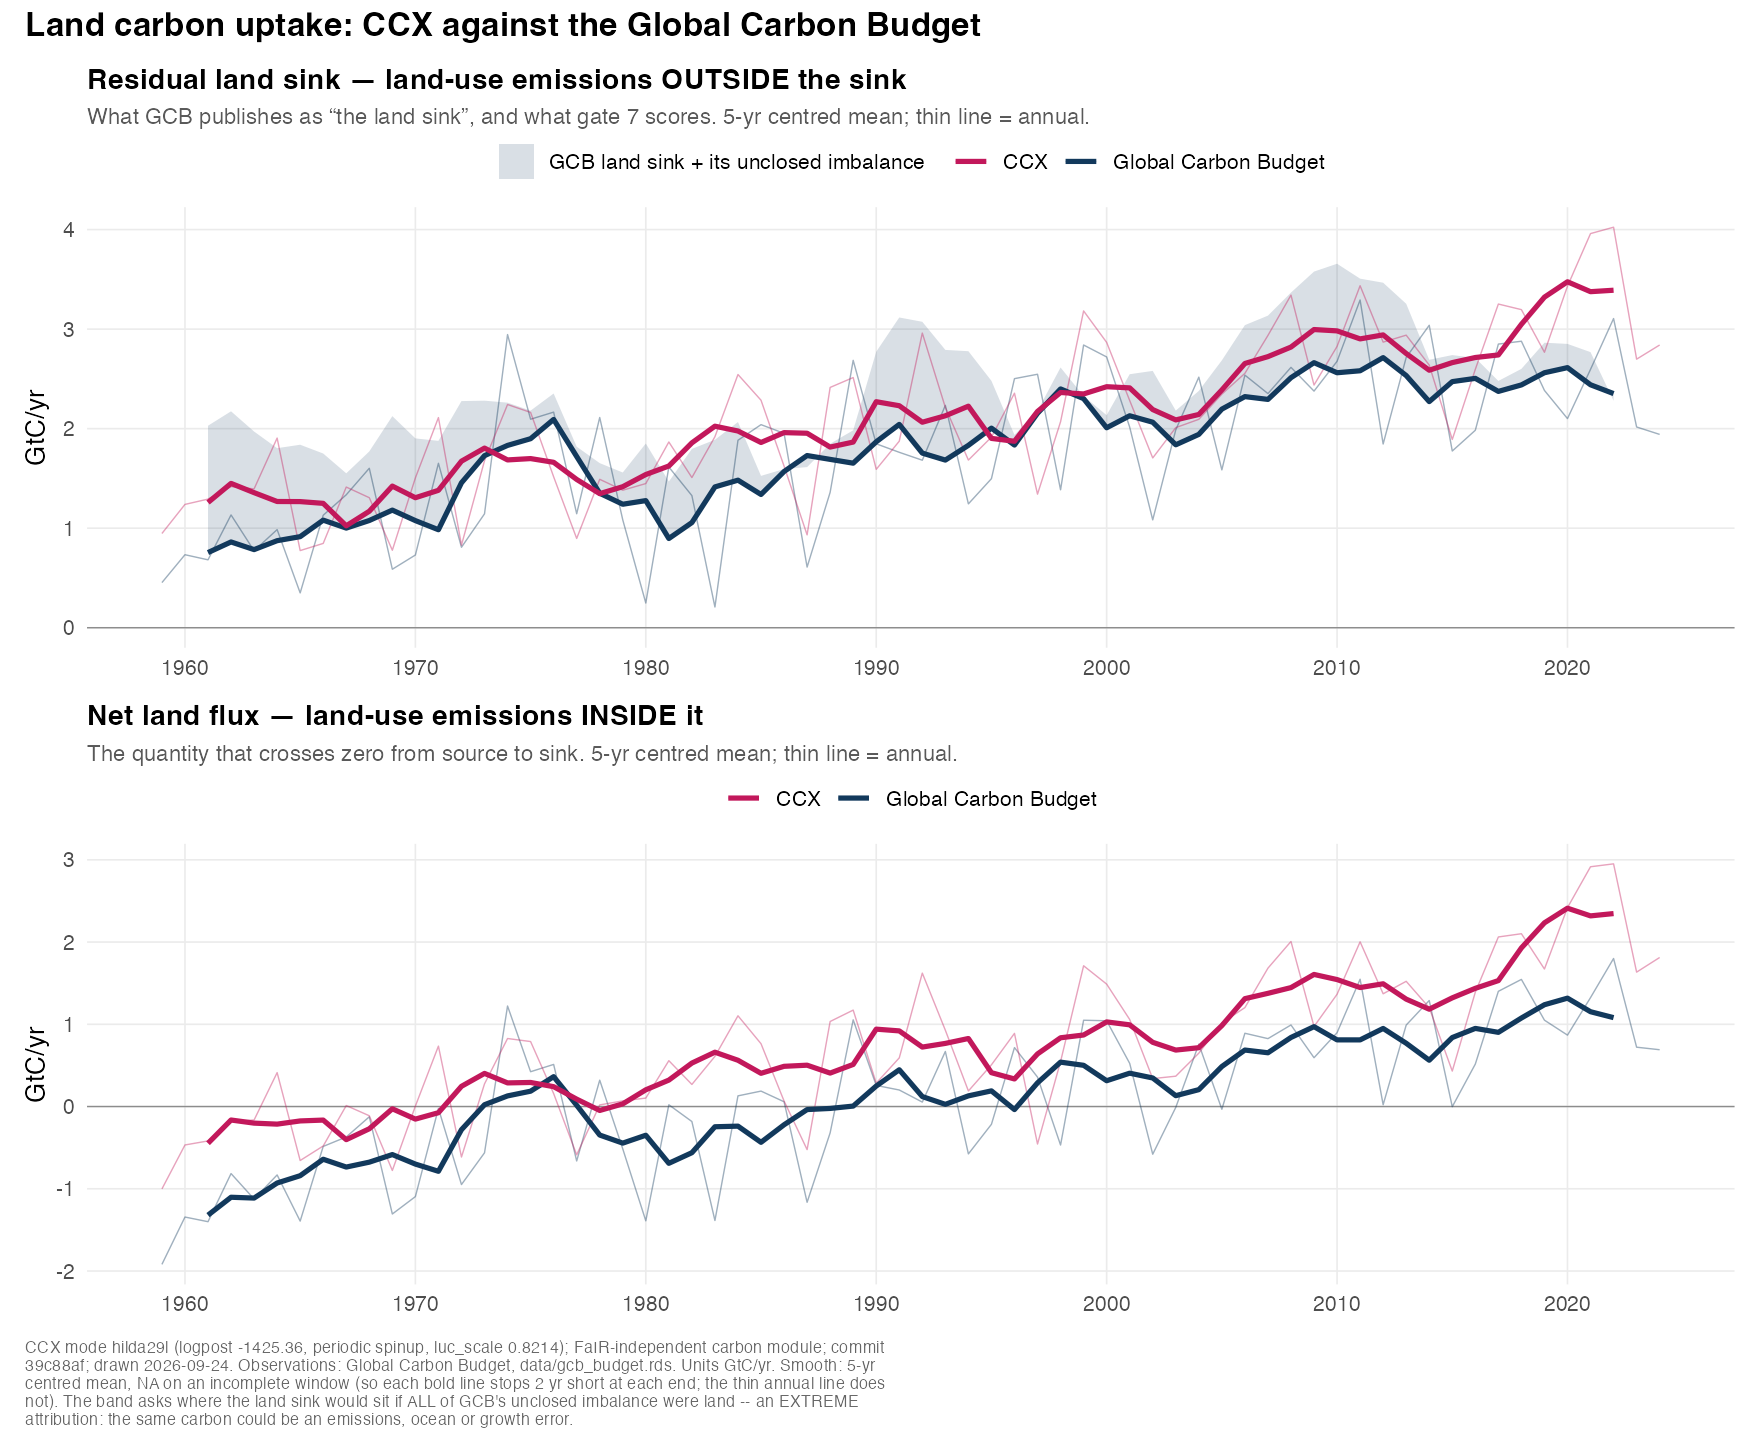
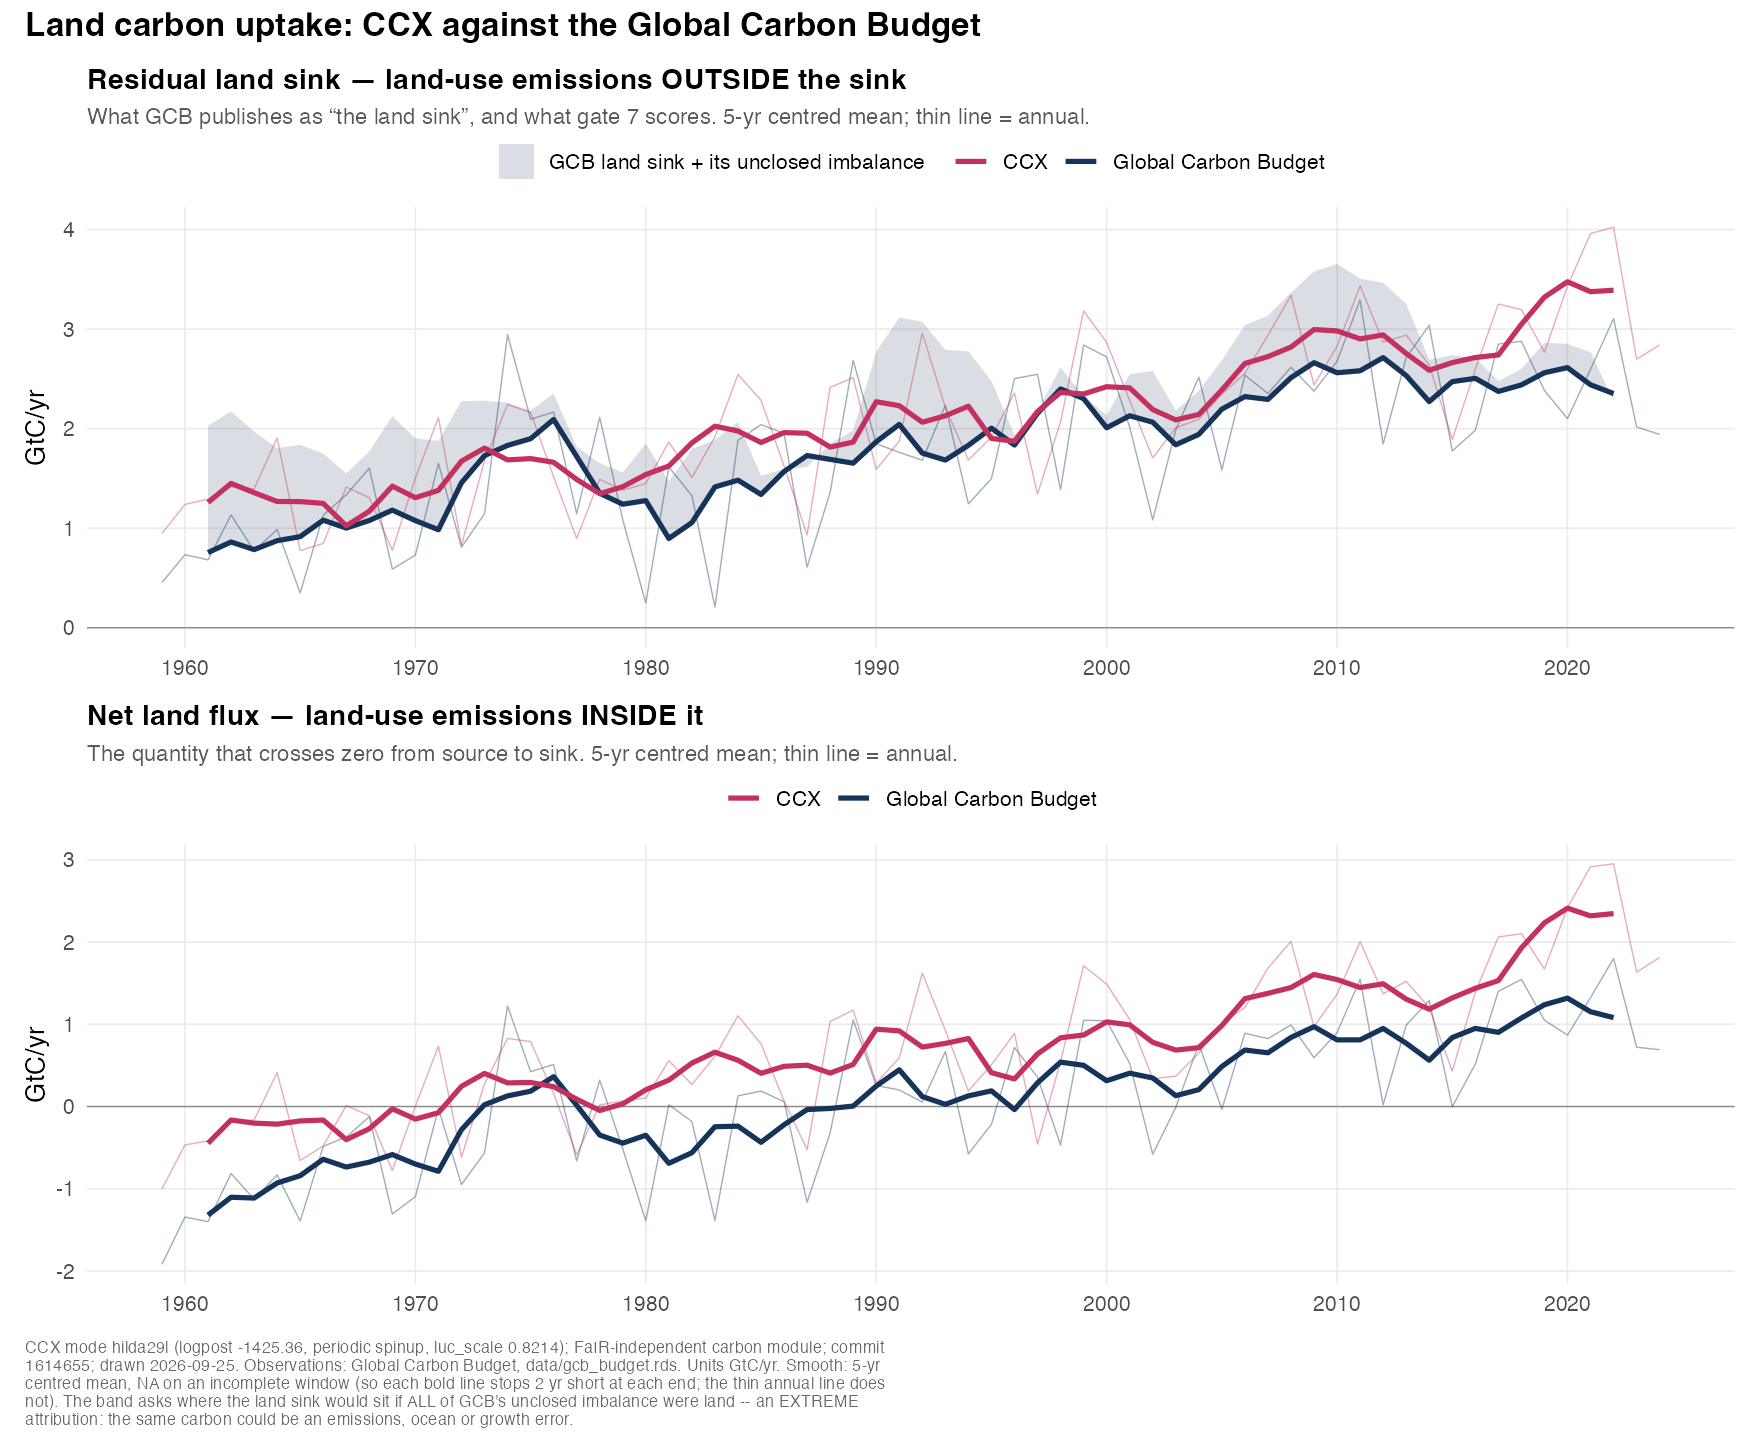
Re-step the figure's colours onto a reproducible receipt, and gate it
09-24 (k) recorded the pair as "protan 13.5, all passing" from a dichromat
implementation written that session and never committed. The committed
checker reproduces that pair's normal dE exactly (31.3) and scores its
protan at 7.4, below the 8 target. Two defensible implementations
disagreeing by ~2x is the whole width of the pass/fail decision, and the
figure was shipping on the side nothing could reproduce.

#C4315F / #16345A clears it under the stricter implementation: 32.1 / 12.6
/ 26.6 / 40.8. Chosen as the pair closest to its predecessor subject to a
worst-case floor of 12, so it moved dE 2.8 and 1.5 and the regenerated
figure is indistinguishable in character. Neither colour could be held
fixed -- a search pinning one found no partner clearing the floor, because
the protan gap is a joint property of the pair.

The alpha-composited band was checked as well, since scoring a pair says
nothing about a fill derived from it; the app panel's band was checked in
the same pass and also clears.

The receipt is no longer prose beside the constant it describes.
FG_COL_SCORES is a named constant and test-figure-palette.R parses both out
of the figure script and re-runs the checker, with the superseded pair
asserted to fail so the gate guards something. Constants are read by
parsing, not regex -- a regex would match the comment block where the stale
numbers lived. Mutation-tested both ways.

Which implementation is right is still unresolved, deliberately: the pair
[…]

diff --git a/CHANGELOG.md b/CHANGELOG.md
@@ -2,6 +2,32 @@
 
 Project log: what was done, what was tried and abandoned, and why.
 
+## 2026-09-25 — **The figure's accessibility receipt was a number nothing could reproduce. Re-stepped, and the receipt is now a GATE rather than a comment.**
+
+09-24 (k) recorded `#C2185B` / `#12395C` as "normal 31.3 / protan **13.5** / deutan 26.1 / tritan 31.7, all passing", from a dichromat implementation written for that session and **never committed**. `tools/palette_check.py` (committed 09-24 n) reproduces that pair's **normal ΔE exactly (31.3)** and scores its protan at **7.4 — below the 8 target**. ⛔ **Two defensible implementations disagreeing by ~2× is the whole width of the pass/fail decision**, and the figure had been shipping on the side of it that cannot be reproduced.
+
+### Re-stepped to clear the target under the STRICTER implementation
+**`#C4315F` / `#16345A`** — normal **32.1** / protan **12.6** / deutan **26.6** / tritan **40.8**.
+
+⭐ **MINIMAL CHANGE, not a redesign.** Chosen by searching for the pair closest to its predecessor subject to a worst-case floor of **12** (1.5× the target): the new colours sit **ΔE 2.8 and 1.5** from the old ones under normal vision, keep the warm-model / cool-observation semantic, and the regenerated figure is indistinguishable in character.
+⚠ **NEITHER COLOUR COULD BE HELD FIXED.** A search pinning one of them found **no partner** clearing the floor. **The protan gap is a JOINT property of the pair**, not a defect in one of them — which is why "just darken the blue" was not available.
+
+⚠ **The alpha-composited band was checked too**, because scoring a pair says nothing about a fill derived from it: `#16345A` at alpha 0.16 over white is `#DADFE5`, scoring **9.7** against the paper and 57.1 / 31.4 against the two lines. The app panel's band (`#22313F` at 0.16 → `#DCDEE0`) was checked in the same pass and also clears: **9.9 / 58.7 / 37.3**.
+
+### ⭐⭐ The receipt is now `FG_COL_SCORES`, and `test-figure-palette.R` re-derives it
+The numbers are no longer prose next to the constant they describe. They are a **named constant**, and the test **parses both out of the figure script and re-runs the checker**:
+- **1.** the recorded scores must equal what the tool computes (the caption-sync bug class, applied to an accessibility claim);
+- **2.** the pair must clear `FG_COL_TARGET`, **with the superseded pair asserted to FAIL it** — so the gate is guarding something, and (k)'s one reproducible value (normal 31.3) is pinned as the reason the disagreement is about the *simulation*, not the ΔE;
+- **3.** the checker's own structural self-check: a colour against itself is 0, and **neutrals are invariant under all three dichromacies** — a projection with the wrong plane moves greys.
+⚠ The constants are read by **PARSING** the file, never by regex on the line — a regex would match the same text inside the comment block that explains the constant, which is exactly where the stale numbers lived.
+⚠ **Skips if `python3` is absent**; the skill's own validator needs `node`, which is not installed here, which is why the check was reimplemented at all.
+
+**Mutation-tested**: changing a recorded score without the colours fails 1; reverting to the superseded pair fails 2. Restored, 7/0.
+
+⛔ **Still unresolved, and deliberately**: which implementation is right. Nothing here arbitrates — the pair was moved so the answer no longer matters for this figure. ⇒ [[palette_check_unreproduced]].
+
+Figure regenerated (anchor gate 7 = 3.09 before drawing; every number unchanged, only the colours moved). Suite filter gains `figure`: **613 / 0** across 19 files.
+
 ## 2026-09-24 (p) — **The land-use caveat said the natural sink grew "through CO₂ fertilisation AND FOREST REGROWTH".** ⛔ **It names a mechanism this model does not contain, and since (n) drew regrowth two charts below it, the page contradicted itself.** Corrected, with the cross-references derived from shared constants and a regression gate.
 
 ### The two corrections, both of FACT
